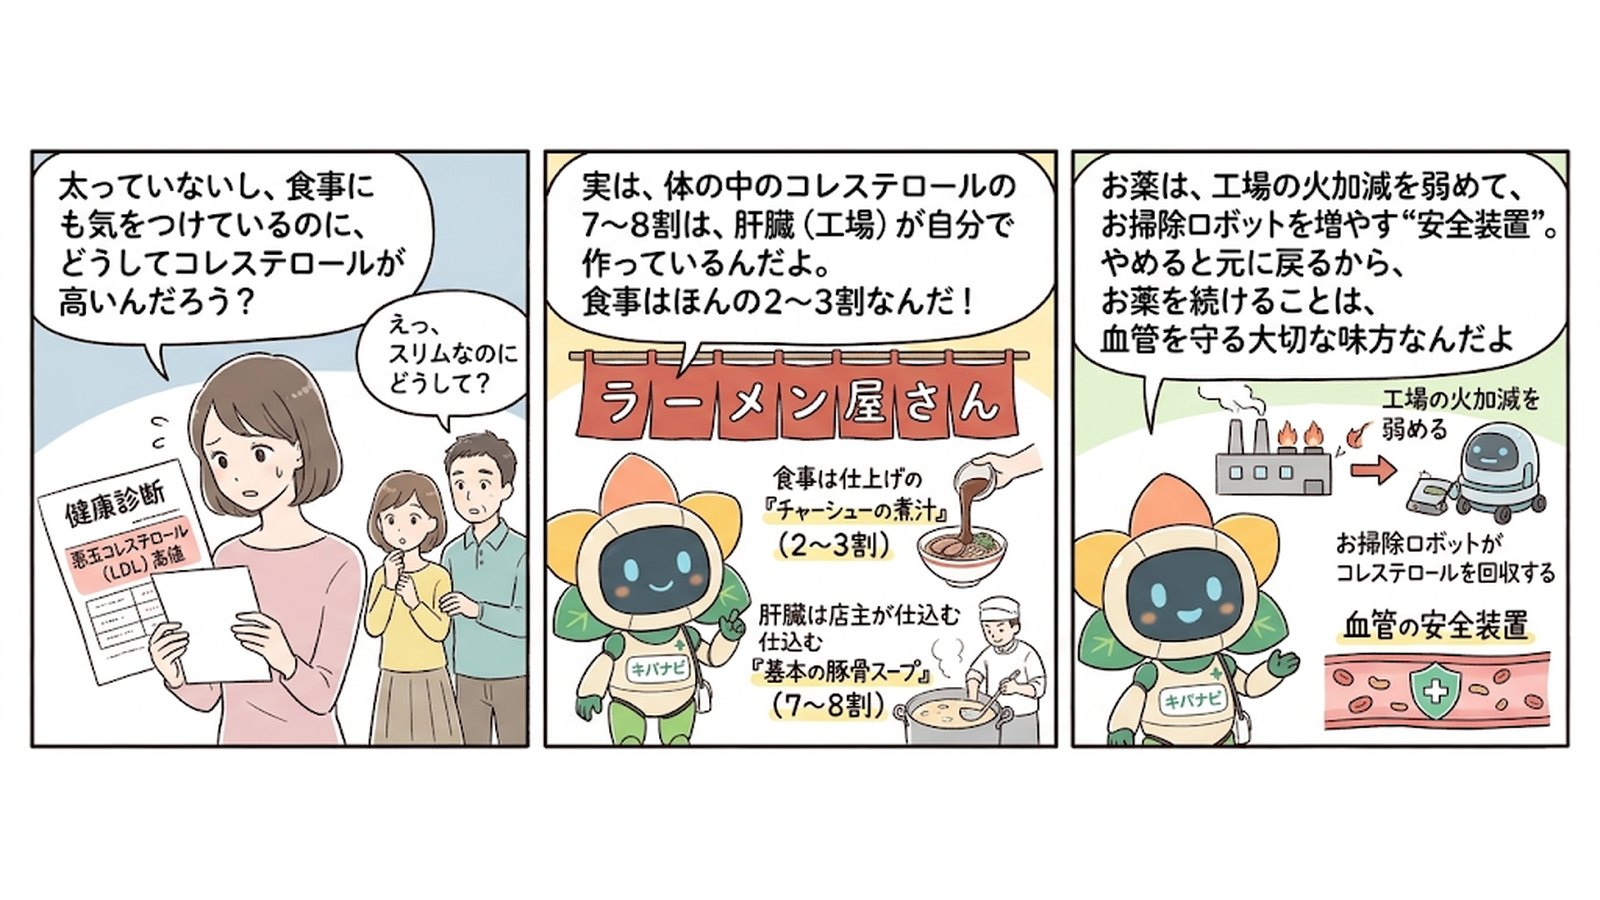
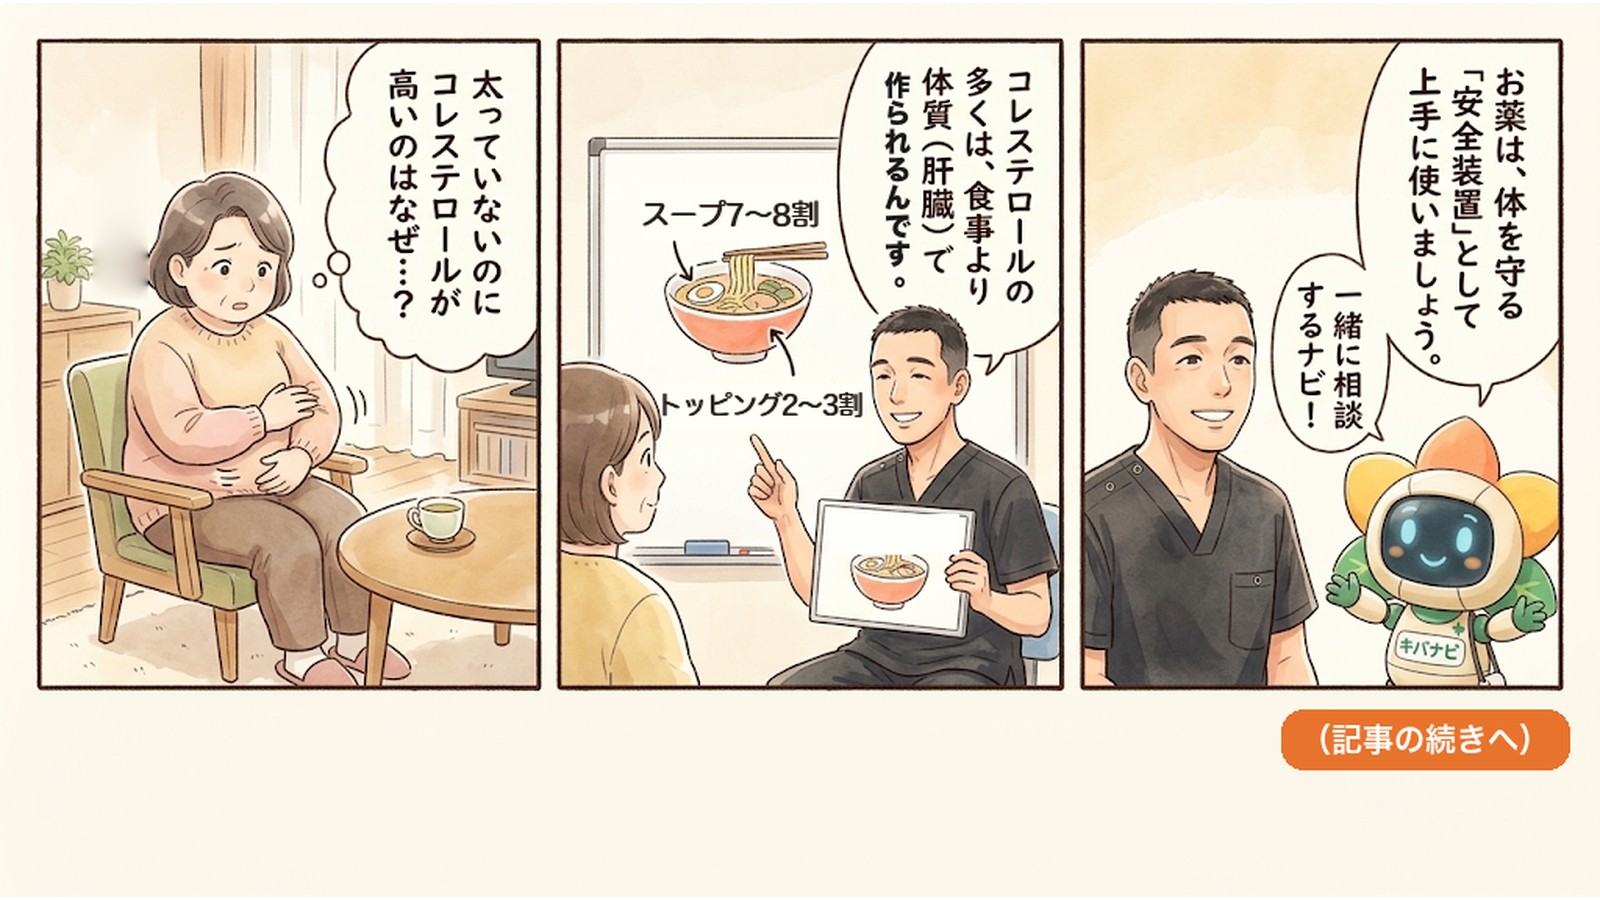
院長ブログ「痩せているのにコレステロール」の表紙を院長入りの漫画に差し替え（誤字・割合・余分な文字を修正）

diff --git a/app/lib/blog-data.generated.ts b/app/lib/blog-data.generated.ts
@@ -9876,7 +9876,7 @@ export const generatedPosts: BlogPost[] = [
     "slug": "yasete-iru-noni-ldl",
     "date": "2026.11.03",
     "cover": "/blog/yasete-iru-noni-ldl.jpg",
-    "coverVersion": "03283c30",
+    "coverVersion": "6a95ae1f",
     "coverWidth": 1600,
     "coverHeight": 900,
     "youtube": "xhlr0E9nWo8",
